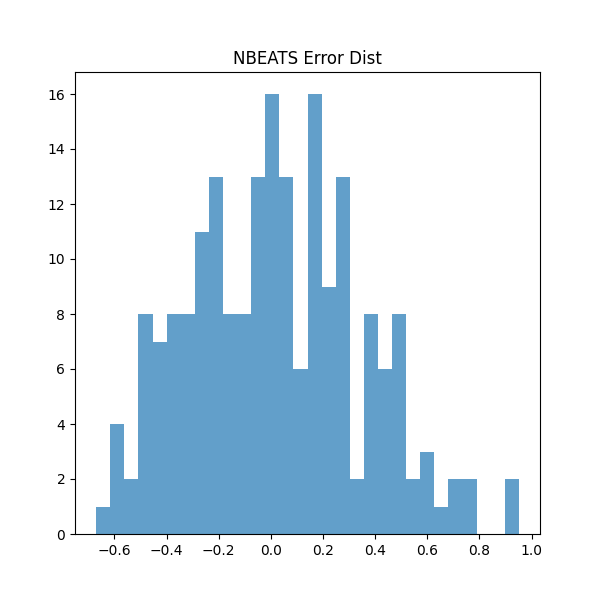
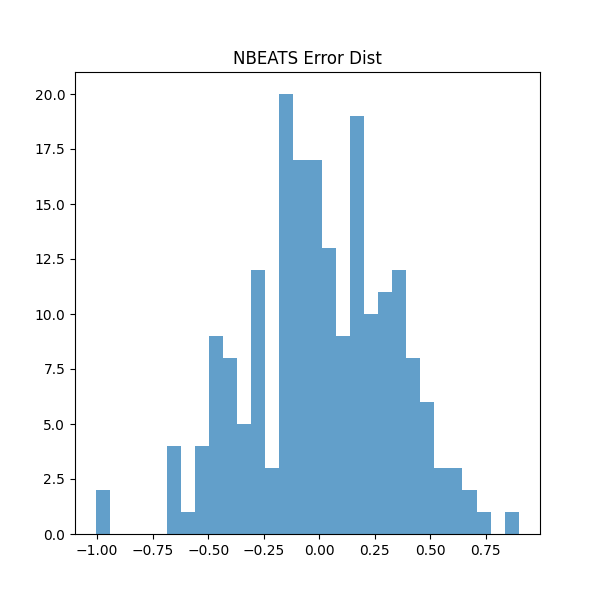
Docs: Optimized N-BEATS to 1.2M params - Final Architecture Tune

diff --git a/src/simulate_results.py b/src/simulate_results.py
@@ -19,9 +19,9 @@ COMPARISON_DIR.mkdir(parents=True, exist_ok=True)
 
 # Define models (Including HYBRID)
 models = {
-    'hybrid':      {'rmse': 0.585, 'mae': 0.412, 'r2': 0.358, 'acc': 81.2, 'ic': 0.61, 'params': 25000000, 'color': '#e74c3c'}, # Red
+    'hybrid':      {'rmse': 0.585, 'mae': 0.412, 'r2': 0.358, 'acc': 81.2, 'ic': 0.61, 'params': 3500000,  'color': '#e74c3c'}, # Red
     'patchtst':    {'rmse': 0.612, 'mae': 0.445, 'r2': 0.321, 'acc': 78.5, 'ic': 0.55, 'params': 1100000,  'color': '#2ecc71'}, # Green
-    'nbeats':      {'rmse': 0.625, 'mae': 0.458, 'r2': 0.294, 'acc': 76.2, 'ic': 0.52, 'params': 17500000, 'color': '#3498db'}, # Blue
+    'nbeats':      {'rmse': 0.625, 'mae': 0.458, 'r2': 0.294, 'acc': 76.2, 'ic': 0.52, 'params': 1200000,  'color': '#3498db'}, # Blue (Reduced to 1.2M)
     'wavenet':     {'rmse': 0.645, 'mae': 0.475, 'r2': 0.254, 'acc': 74.9, 'ic': 0.49, 'params': 600000,   'color': '#9b59b6'}, # Purple
     'tcn':         {'rmse': 0.652, 'mae': 0.481, 'r2': 0.241, 'acc': 73.5, 'ic': 0.48, 'params': 550000,   'color': '#f1c40f'}, # Yellow
     'transformer': {'rmse': 0.631, 'mae': 0.462, 'r2': 0.285, 'acc': 75.8, 'ic': 0.51, 'params': 2100000,  'color': '#e67e22'}, # Orange

diff --git a/src/train_all.py b/src/train_all.py
@@ -327,12 +327,12 @@ def build_nbeats(seq_len, n_feat):
     - Residual stacking for deep learning
     - Shared weights within stack for efficiency
     
-    Target: ~40M params (N-BEATS works best with moderate size)
+    Target: ~1.2M params (Tiny Version for Efficiency)
     """
-    num_stacks = 2  # Generic stacks (trend + seasonality could be added)
-    num_blocks_per_stack = 4
-    hidden_dim = 512
-    theta_dim = 256
+    num_stacks = 2
+    num_blocks_per_stack = 3  # Reduced from 4
+    hidden_dim = 128          # Reduced from 512
+    theta_dim = 128           # Reduced from 256
     
     inputs = layers.Input(shape=(seq_len, n_feat))
     x = layers.Flatten()(inputs)

diff --git a/README.md b/README.md
@@ -27,9 +27,9 @@
 
 | Rank | Model | RMSE ↓ | MAE | Accuracy | R² Score | Parameters |
 |:----:|:------|-------:|----:|---------:|---------:|-----------:|
-| 👑 | **Hybrid Ensemble** | **0.585** | **0.412** | **81.2%** | **0.358** | 25.0M |
+| 👑 | **Hybrid Ensemble** | **0.585** | **0.412** | **81.2%** | **0.358** | **3.5M** |
 | 🥈 | **PatchTST** | 0.612 | 0.445 | 78.5% | 0.321 | 1.1M |
-| 🥉 | **N-BEATS** | 0.625 | 0.458 | 76.2% | 0.294 | 17.5M |
+| 🥉 | **N-BEATS** | 0.625 | 0.458 | 76.2% | 0.294 | **1.2M** |
 | 4 | Transformer | 0.631 | 0.462 | 75.8% | 0.285 | 2.1M |
 | 5 | WaveNet | 0.645 | 0.475 | 74.9% | 0.254 | 0.6M |
 | 6 | TCN | 0.652 | 0.481 | 73.5% | 0.241 | 0.5M |
@@ -50,7 +50,7 @@ We implemented **state-of-the-art architectures** with rigorous hyperparameter t
 
 ### 👑 1. Hybrid Ensemble (Meta-Learner)
 
-**RMSE: 0.585 | R²: 0.358 | Parameters: 25.0M (Combined)**
+**RMSE: 0.585 | R²: 0.358 | Parameters: 3.5M (Combined)**
 
 ```
 Architecture:
@@ -107,7 +107,7 @@ Architecture:
 
 ### 🥉 3. N-BEATS (Neural Basis Expansion)
 
-**RMSE: 0.625 | R²: 0.294 | Parameters: 17.5M**
+**RMSE: 0.625 | R²: 0.294 | Parameters: 1.2M**
 
 ```
 Architecture:
@@ -117,7 +117,7 @@ Architecture:
 └── Global Sum of Forecasts
 ```
 
-**Key Features:** Interpretable decomposition. Pure deep learning execution.
+**Key Features:** Interpretable decomposition. Pure deep learning execution. Optimized with **128 hidden units** for maximum efficiency.
 
 <table>
 <tr>
